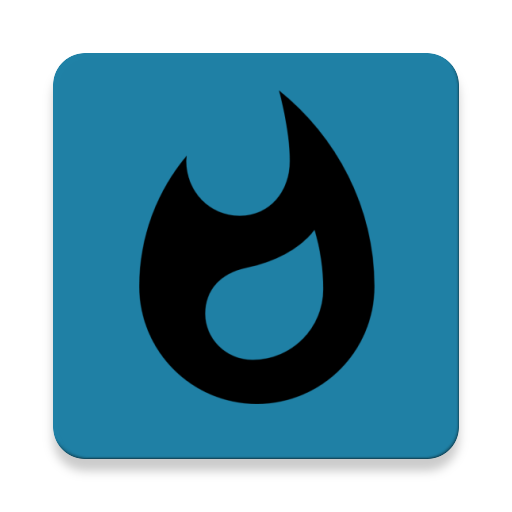
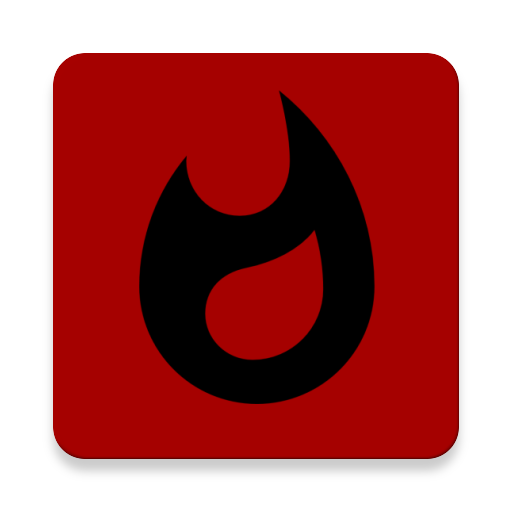
Modificación del toast y del icono de app

diff --git a/app/src/main/java/com/example/hector/fixnote/MainActivity.java b/app/src/main/java/com/example/hector/fixnote/MainActivity.java
@@ -113,7 +113,7 @@ public class MainActivity extends AppCompatActivity {
 
                         Transport.send(message);
 
-                        Toast.makeText(MainActivity.this, "Nota enviada!", Toast.LENGTH_LONG).show();
+                        Toast.makeText(MainActivity.this, "Nota enviada", Toast.LENGTH_LONG).show();
 
                         nombre.setText("");
                         apellido1.setText("");
